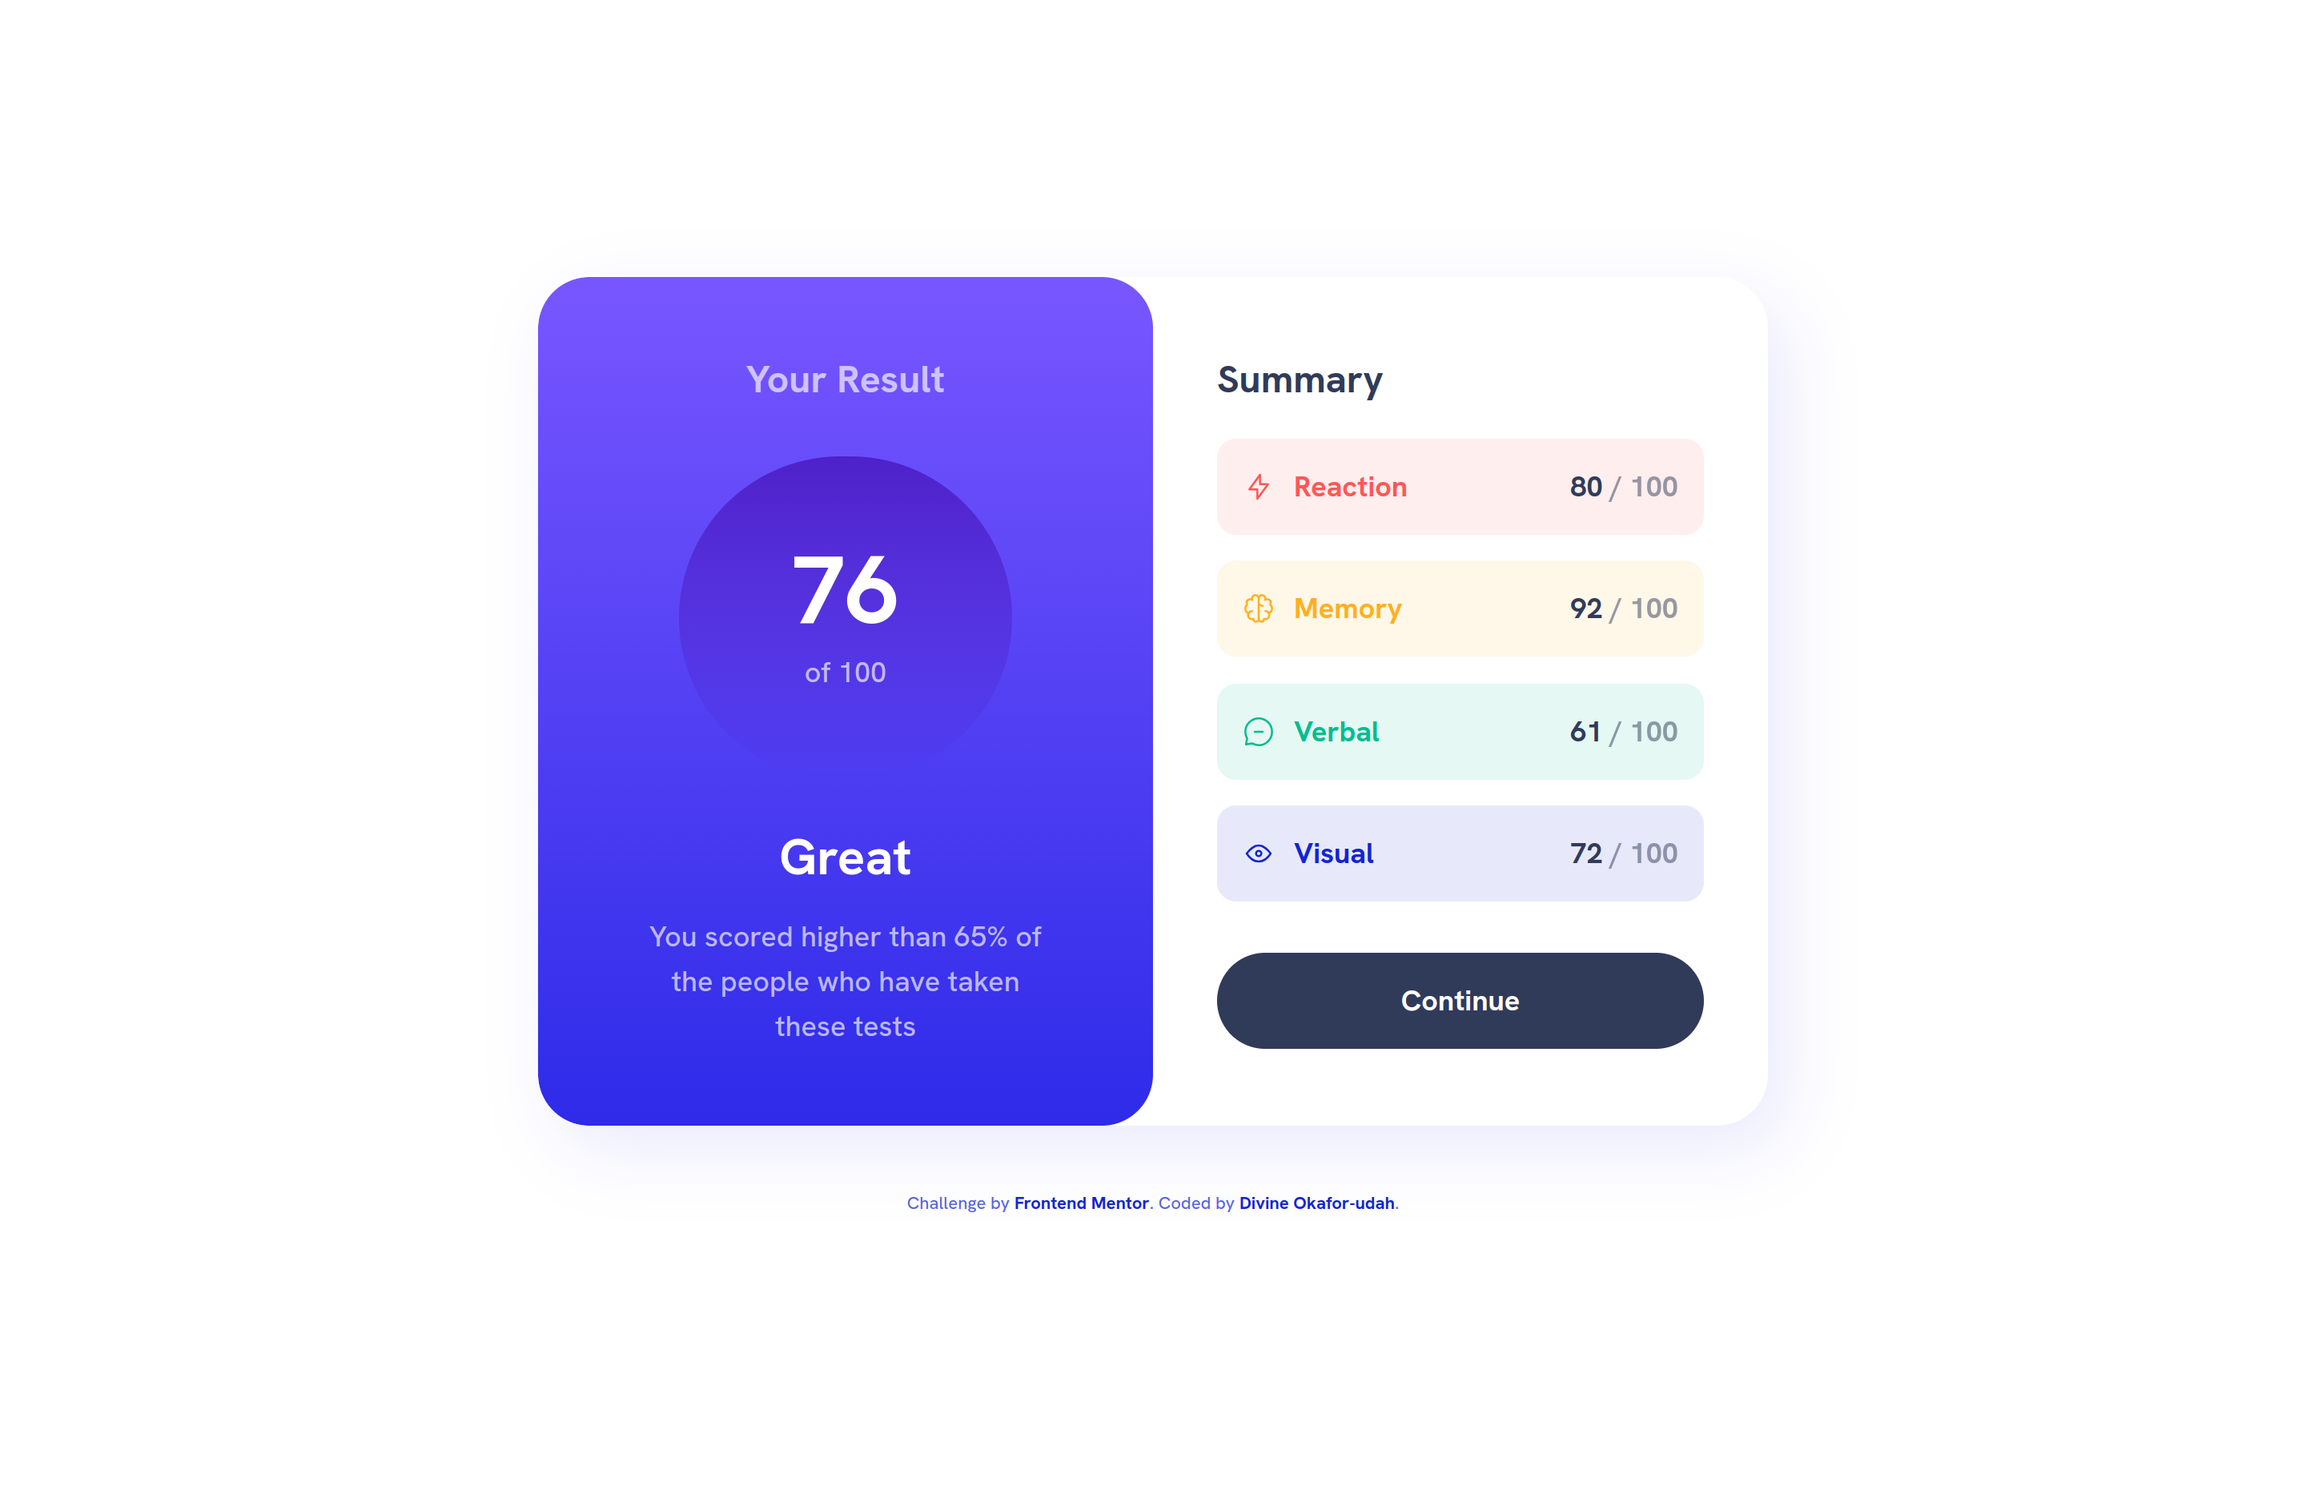
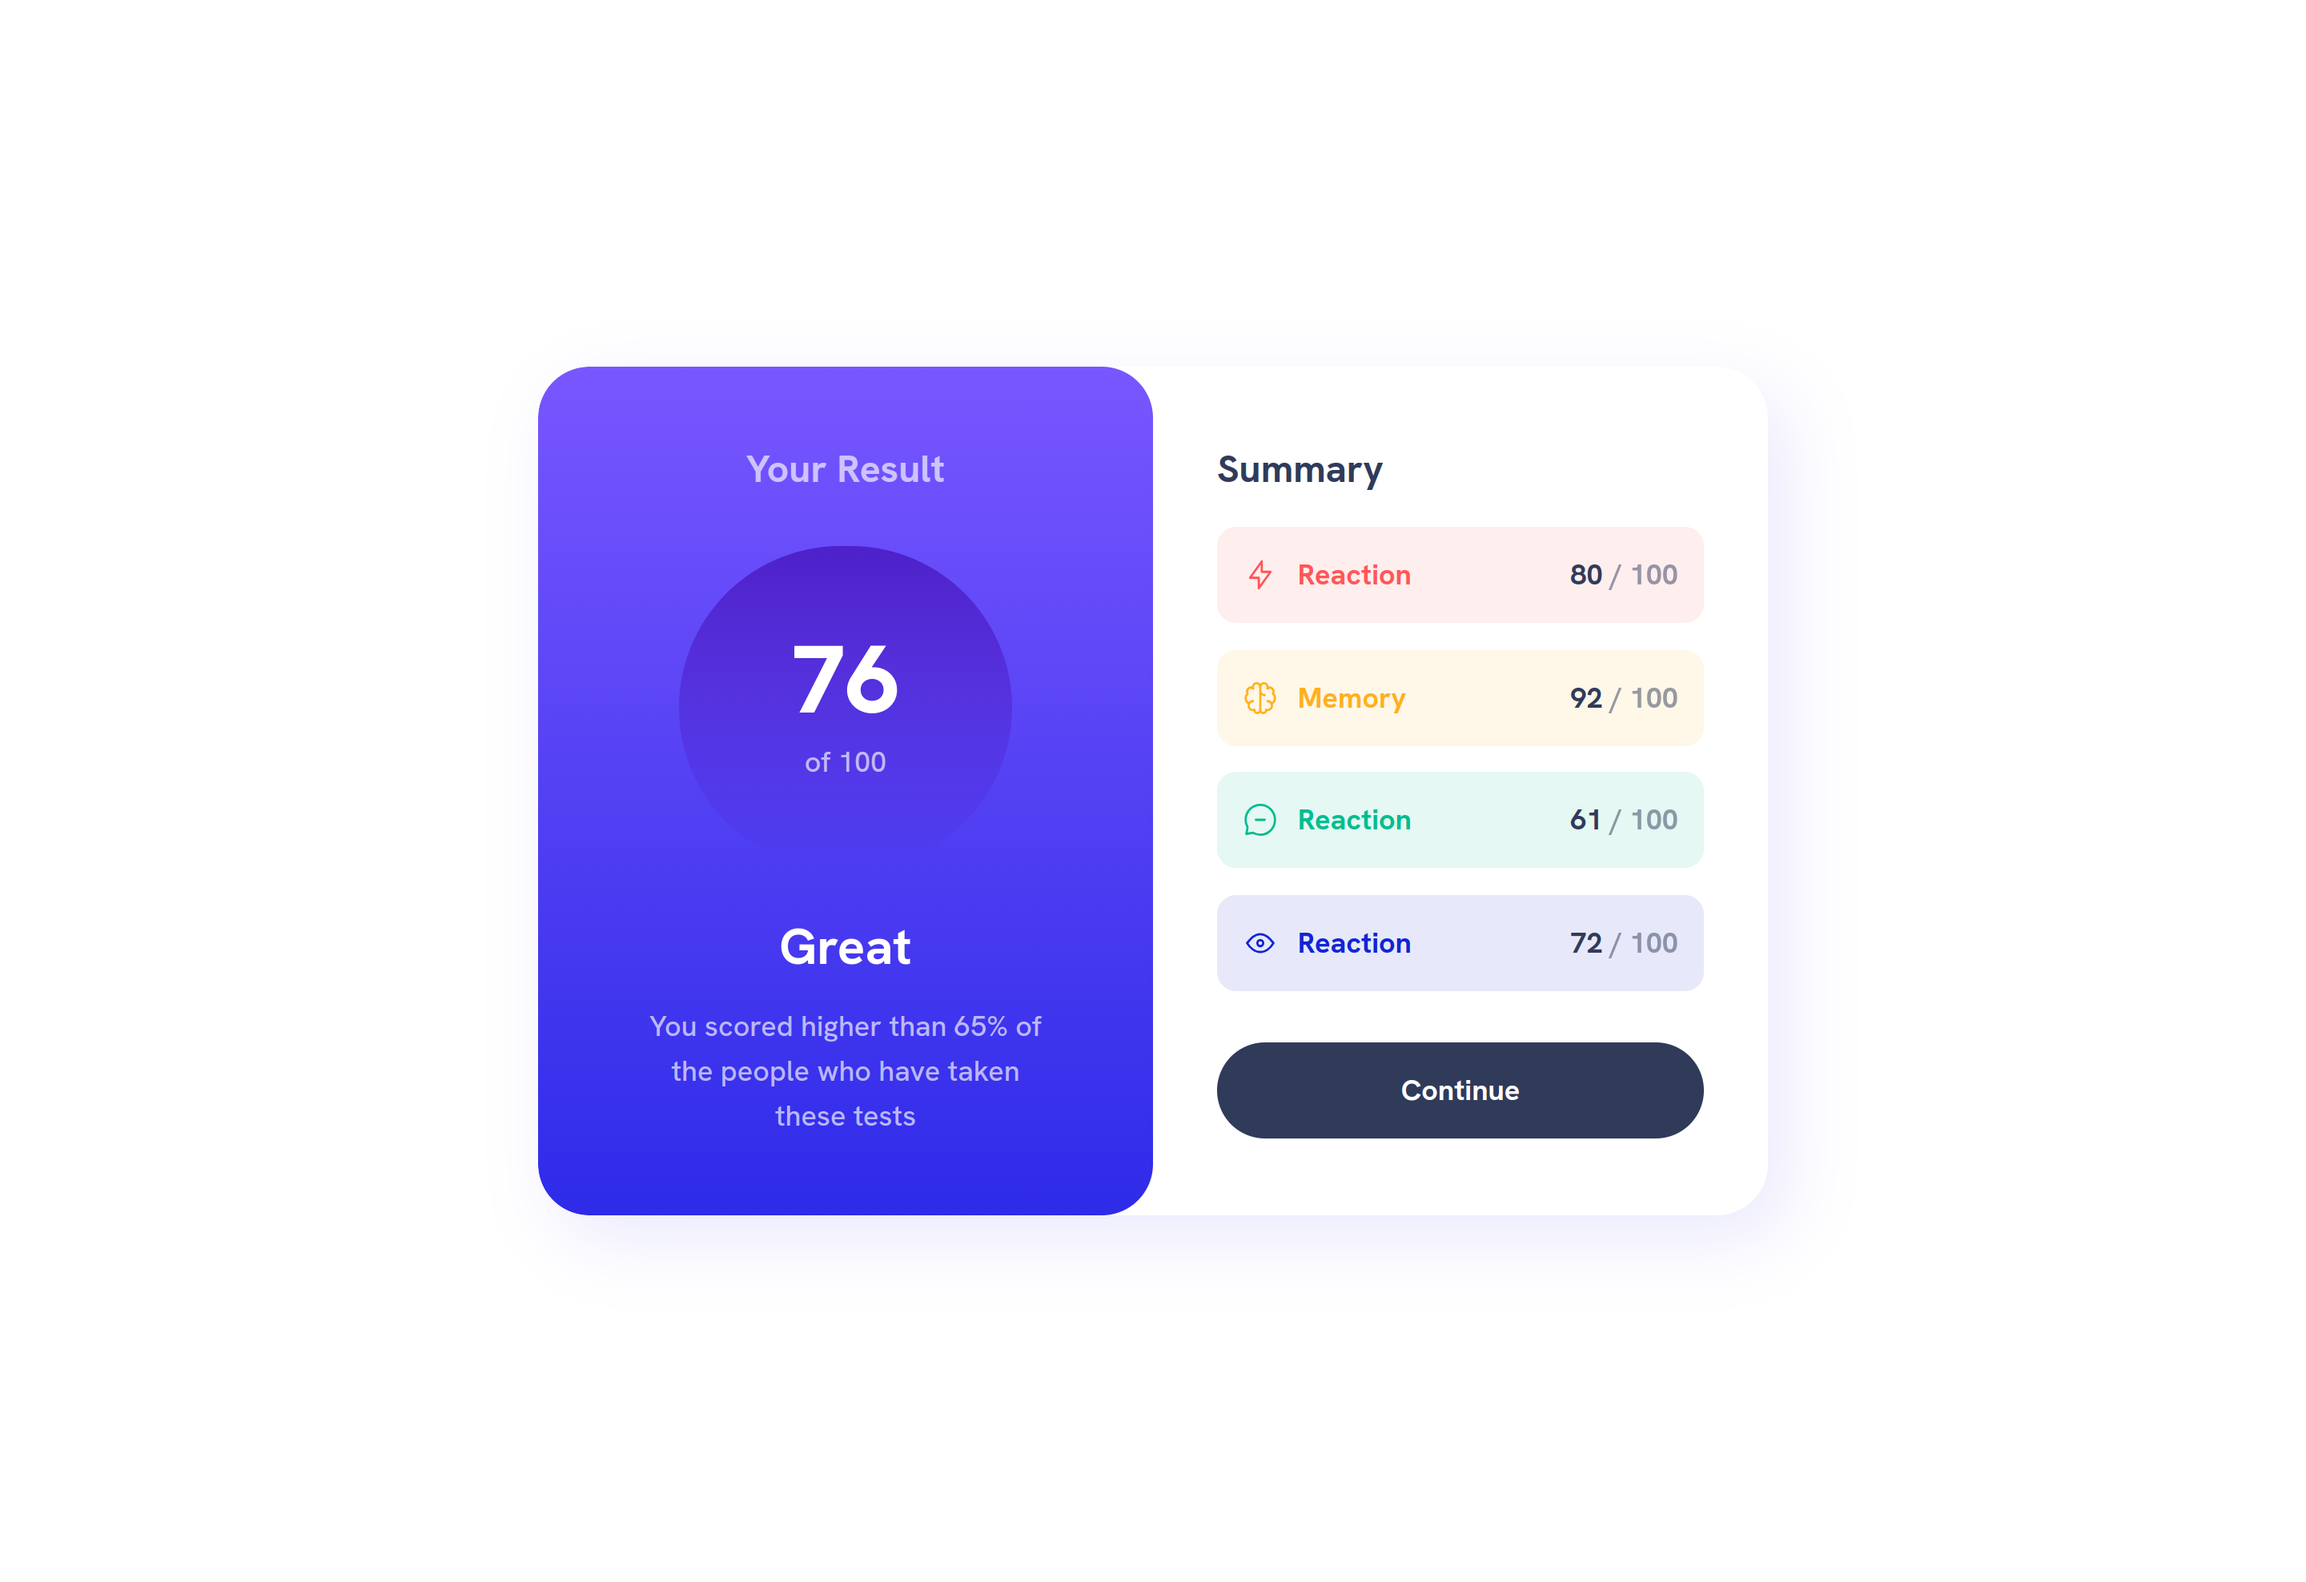
updated the screenshots in my README.md to ones without author's name

diff --git a/index.html b/index.html
@@ -86,7 +86,7 @@
 
     </main>
 
-    <footer  class="attribution tw-px-10 tw-my-4 lg:tw-fixed lg:tw-bottom-0 lg:tw-font-medium">
+    <footer  class="tw-hidden attribution tw-px-10 tw-my-4 lg:tw-fixed lg:tw-bottom-0 lg:tw-font-medium">
       Challenge by
       <a href="https://www.frontendmentor.io?ref=challenge" target="_blank">Frontend Mentor</a>. Coded by
       <a href="https://www.frontendmentor.io/profile/Deeokafor" target="_blank">Divine Okafor-udah</a>.

diff --git a/output.css b/output.css
@@ -589,6 +589,10 @@ video {
   display: flex;
 }
 
+.tw-hidden {
+  display: none;
+}
+
 .tw-h-40 {
   height: 10rem;
 }
